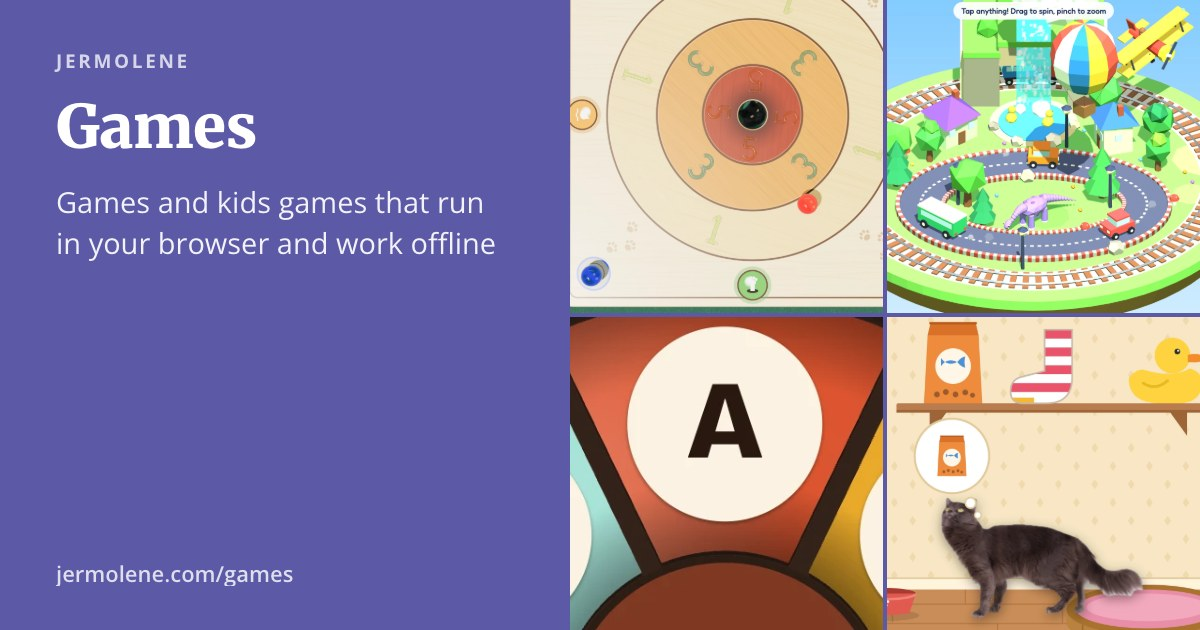
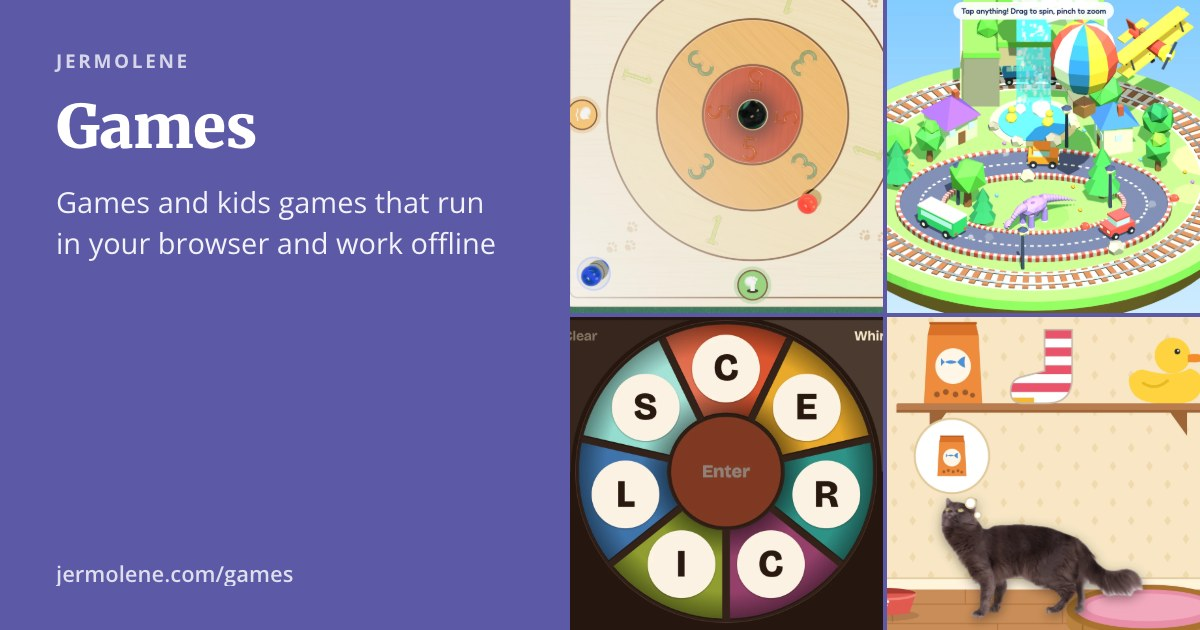
Games, toys and tools install together again, as one app that opens on the games, with one service worker at the root of the site that leaves the rest of the site alone; the indexes show an Install the app button in browsers that can offer one

Changed region(s): [[0.4625, 0.4825, 0.74, 1.0]]

diff --git a/build-pwa.js b/build-pwa.js
@@ -1,32 +1,32 @@
 /*
-Generate the files that make the indexes of the toys, games and tools at /toys,
-/games and /tools, and each toy beneath them, installable as Progressive Web
-Apps. The output goes straight into the assembled site, so this runs at the end
-of bld.sh. Each of the three sections is an app of its own, with its own
-service worker, since a worker can only look after the folder it is served
-from. For each <section>:
+Generate the files that make the toys, games and tools installable as
+Progressive Web Apps: together, as one app whose index pages are at /games,
+/toys and /tools, and each toy alone. The output goes straight into the
+assembled site, so this runs at the end of bld.sh. A service worker can only
+look after the folder it is served from, and the only folder the three
+sections share is the root of the site, so that is where the one worker and
+the app's manifest go:
 
-* `site/<section>/manifest.webmanifest` describes the index as an app that
-  bundles every toy in the section, with the toys listed as its shortcuts
+* `site/manifest.webmanifest` describes the app, which opens on the games and
+  has the three index pages as its shortcuts
 * `site/<section>/<name>/manifest.webmanifest` describes each toy as an app of
   its own, with its name, description and colours taken from the toy's `<meta>`
   tags via the tiddlers written by build-toys.js. The theme colour comes from
   `<meta name="theme-color">` and the short name from `<meta name="toy-short-title">`
-* `site/<section>/sw.js`, the service worker copied from `static-assets/toys`,
-  has the list of files it caches on installation written into it, along
-  with a version derived from their contents
+* `site/sw.js`, the service worker copied from `static-assets/sw.js`, has the
+  list of files it caches on installation written into it, along with a
+  version derived from their contents
 
-`static-assets/toys` holds the one copy of the files the sections share
-(pwa.js, sw.js and the index's icons), which are copied into `site/games` and
-`site/tools` here.
+`static-assets/toys` holds the one copy of the files the index pages and the
+toys share (pwa.js and the app's icons), which are copied into `site/games`
+and `site/tools` here.
 
-Everything under `site/<section>` is precached, except the worker itself, source
-maps and licences, and images over LARGE_IMAGE_BYTES (such as the
-Lenticulator's sample photographs), which are cached as they are first used
-instead. The index page precaches its own stylesheet, banner and the toy
-screenshots too, so that it works offline as well as the toys. Third party
-scripts and stylesheets referenced by the toys are listed separately for the
-worker to fetch on a best-effort basis.
+Everything under the three sections is precached, except source maps and
+licences, and images over LARGE_IMAGE_BYTES (such as the Lenticulator's sample
+photographs), which are cached as they are first used instead. The index pages'
+own stylesheet, banner and toy screenshots are precached too, so that they work
+offline as well as the toys. Third party scripts and stylesheets referenced by
+the toys are listed separately for the worker to fetch on a best-effort basis.
 
 Icons are expected at `icon-192.png`, `icon-512.png`, `apple-touch-icon.png`
 and `icon.svg` in `static-assets/toys` and in each toy's folder; see
@@ -51,19 +51,26 @@ const LARGE_IMAGE_BYTES = 512 * 1024,
 	IMAGE_EXTENSIONS = /\.(jpe?g|png|gif|webp|avif|bmp|tiff?)$/i,
 	NEVER_PRECACHED = /(^|\/)(sw\.js|precache\.js|\.DS_Store)$|\.(map|md)$/i;
 
-const hubs = {
-	toys: {name: "Jermolene's Toys", short_name: "Toys", description: "Toys from jermolene.com, all in one app"},
-	games: {name: "Jermolene's Games", short_name: "Games", description: "Games from jermolene.com, all in one app"},
-	tools: {name: "Jermolene's Tools", short_name: "Tools", description: "Tools from jermolene.com, all in one app"}
+const SECTIONS = [
+	{name: "games", caption: "Games", description: "Games and kids games"},
+	{name: "toys", caption: "Toys", description: "Trifles to play with"},
+	{name: "tools", caption: "Tools", description: "Useful things"}
+];
+
+const APP = {
+	name: "Jermolene's Games, Toys and Tools",
+	short_name: "Jermolene",
+	description: "Games, toys and tools from jermolene.com, all in one app that works offline",
+	start: "/games/"
 };
 
 const HUB_THEME_COLOR = "#5c59a7",
 	HUB_BACKGROUND_COLOR = "#ffffff";
 
 // The files shared by the sections, copied from site/toys into the others
-const SHARED_FILES = ["pwa.js","sw.js","icon-192.png","icon-512.png","apple-touch-icon.png"];
+const SHARED_FILES = ["pwa.js","icon-192.png","icon-512.png","apple-touch-icon.png"];
 
-// Files precached for each index page in addition to those under its section
+// Files precached for the index pages in addition to those under the sections
 const hubExtras = ["/static/static.css","/images/banner.jpg","/favicon.ico"];
 
 function readToys() {
@@ -166,30 +173,23 @@ function toyManifest(toy) {
 	};
 }
 
-function hubManifest(section,toys) {
-	const hub = hubs[section],
-		hubIcons = icons(path.join(siteDir,section),"");
-	if(hubIcons.missing.length) {
-		console.log("build-pwa: warning: " + section + " is missing " + hubIcons.missing.join(", ") + "; run build-icons.sh");
+function appManifest() {
+	const appIcons = icons(sharedDir,"/toys/");
+	if(appIcons.missing.length) {
+		console.log("build-pwa: warning: toys is missing " + appIcons.missing.join(", ") + "; run build-icons.sh");
 	}
 	return {
-		name: hub.name,
-		short_name: hub.short_name,
-		description: hub.description,
-		id: "/" + section + "/",
-		start_url: "/" + section + "/",
-		scope: "/" + section + "/",
+		name: APP.name,
+		short_name: APP.short_name,
+		description: APP.description,
+		id: "/apps",
+		start_url: APP.start,
+		scope: "/",
 		display: "standalone",
 		theme_color: HUB_THEME_COLOR,
 		background_color: HUB_BACKGROUND_COLOR,
-		icons: hubIcons.list,
-		shortcuts: toys.map(toy => {
-			const shortcut = {name: toy.caption, description: toy.description, url: toy.url};
-			if(fs.existsSync(path.join(siteDir,toy.route,"icon-192.png"))) {
-				shortcut.icons = [{src: toy.url + "icon-192.png", sizes: "192x192", type: "image/png"}];
-			}
-			return shortcut;
-		})
+		icons: appIcons.list,
+		shortcuts: SECTIONS.map(section => ({name: section.caption, description: section.description, url: "/" + section.name + "/", icons: [{src: "/toys/icon-192.png", sizes: "192x192", type: "image/png"}]}))
 	};
 }
 
@@ -198,25 +198,17 @@ function main() {
 		throw new Error("site/toys does not exist; run bld.sh first");
 	}
 	const toys = readToys();
-	// The shared files are copied before any section's worker is filled in
-	Object.keys(hubs).filter(section => section !== "toys").forEach(section => {
-		SHARED_FILES.forEach(file => fs.copyFileSync(path.join(sharedDir,file),path.join(siteDir,section,file)));
+	SECTIONS.filter(section => section.name !== "toys").forEach(section => {
+		SHARED_FILES.forEach(file => fs.copyFileSync(path.join(sharedDir,file),path.join(siteDir,section.name,file)));
 	});
-	Object.keys(hubs).forEach(section => {
-		buildSection(section,path.join(siteDir,section),toys.filter(toy => toy.section === section));
-	});
-}
-
-function buildSection(section,sectionDir,toys) {
-	const prefix = "/" + section + "/";
 	toys.forEach(toy => {
 		writeJson(path.join(siteDir,toy.route,"manifest.webmanifest"),toyManifest(toy));
 	});
-	writeJson(path.join(sectionDir,"manifest.webmanifest"),hubManifest(section,toys));
-	// The precache: the index page, everything under the section that
-	// qualifies, and the index page's own dependencies
-	const urls = Array.from(new Set([prefix]
-		.concat(listFiles(sectionDir,prefix).filter(isPrecached))
+	writeJson(path.join(siteDir,"manifest.webmanifest"),appManifest());
+	// The precache: the index pages, everything under the sections that
+	// qualifies, and the index pages' own dependencies
+	const urls = Array.from(new Set(SECTIONS.map(section => "/" + section.name + "/")
+		.concat(...SECTIONS.map(section => listFiles(path.join(siteDir,section.name),"/" + section.name + "/").filter(isPrecached)))
 		.concat(hubExtras)
 		.concat(toys.map(toy => toy.screenshot).filter(Boolean))))
 		.filter(url => {
@@ -247,14 +239,14 @@ function buildSection(section,sectionDir,toys) {
 	// bytes change whenever a toy does. Browsers compare the worker script
 	// when checking for updates, but Safari ignores changes to scripts that
 	// it imports, so a separate precache.js left iPads on old versions
-	const workerFile = path.join(sectionDir,"sw.js"),
+	const workerFile = path.join(siteDir,"sw.js"),
 		worker = fs.readFileSync(workerFile,"utf8"),
 		placeholder = 'importScripts("precache.js");';
 	if(!worker.includes(placeholder)) {
 		throw new Error("build-pwa: " + workerFile + " has no " + placeholder + " to replace");
 	}
 	fs.writeFileSync(workerFile,worker.replace(placeholder,() => "self.PRECACHE = " + JSON.stringify(precache,null,"\t") + ";"),"utf8");
-	console.log("build-pwa: " + section + ": wrote manifests for " + toys.length + " toys and a precache of " + urls.length + " files (" + Math.round(totalBytes / 1024) + "KB) plus " + external.size + " external resources, version " + precache.version);
+	console.log("build-pwa: wrote manifests for " + toys.length + " toys and a precache of " + urls.length + " files (" + Math.round(totalBytes / 1024) + "KB) plus " + external.size + " external resources, version " + precache.version);
 }
 
 try {

diff --git a/static-assets/sw.js b/static-assets/sw.js
@@ -1,15 +1,17 @@
 /*
-Service worker for one section of the site, the toys at /toys/, the games at
-/games/ or the tools at /tools/: its index and every toy beneath it. build-pwa.js
-copies it into each section, and it is registered by pwa.js, which the index
-pages and each toy include. The workers share the origin's caches, so each
-names its caches after its own section and only ever deletes its own.
+Service worker for the toys at /toys/, the games at /games/ and the tools at
+/tools/: their index pages and every toy beneath them. It is served from the
+root of the site, so that its scope covers all three sections and they can be
+installed together as one app, and it is registered by pwa.js, which the
+index pages and each toy include. Its scope also covers the rest of the site,
+whose pages and resources it leaves alone.
 
 build-pwa.js replaces the importScripts() line below with the list of files
 to cache, along with a version derived from their contents. Any change to a
 toy therefore changes the bytes of this worker, so the browser notices the
 change when it checks for updates. The new version is installed into a fresh
-cache, and the old one is discarded on activation.
+cache, and the old one is discarded on activation, along with the caches of
+the earlier workers that each looked after one section.
 
 The toys' own files are fetched from the network first, so that a visit when
 online always shows the latest version, even before an updated worker has
@@ -29,9 +31,20 @@ responses can still be stored.
 
 importScripts("precache.js");
 
-const SECTION = new URL(self.registration.scope).pathname.split("/").filter(Boolean)[0] || "toys",
-	PRECACHE = SECTION + "-precache-" + self.PRECACHE.version,
-	RUNTIME = SECTION + "-runtime";
+const PRECACHE = "apps-precache-" + self.PRECACHE.version,
+	RUNTIME = "apps-runtime",
+	SECTIONS = /^\/(games|toys|tools)(\/|$)/,
+	PRECACHED_PATHS = new Set(self.PRECACHE.urls);
+
+// Whether a cross-origin request was made by one of the toys or their
+// indexes, rather than by a page elsewhere on the site
+async function isFromToy(event,url) {
+	if(self.PRECACHE.external.includes(url.href)) {
+		return true;
+	}
+	const client = event.clientId && await self.clients.get(event.clientId);
+	return !!client && SECTIONS.test(new URL(client.url).pathname);
+}
 
 self.addEventListener("install",event => {
 	event.waitUntil((async () => {
@@ -56,7 +69,7 @@ self.addEventListener("activate",event => {
 	event.waitUntil((async () => {
 		const keys = await caches.keys();
 		await Promise.all(keys
-			.filter(key => key.startsWith(SECTION + "-") && key !== PRECACHE && key !== RUNTIME)
+			.filter(key => /^(apps|games|toys|tools)-/.test(key) && key !== PRECACHE && key !== RUNTIME)
 			.map(key => caches.delete(key)));
 		await self.clients.claim();
 	})());
@@ -100,7 +113,16 @@ self.addEventListener("fetch",event => {
 		return;
 	}
 	const url = new URL(request.url);
+	// The rest of the site is left to the browser. Third party resources
+	// can only be told apart once the page that asked for them has been
+	// looked up, and those of other pages are then fetched as normal
+	if(url.origin === self.location.origin && !SECTIONS.test(url.pathname) && !PRECACHED_PATHS.has(url.pathname)) {
+		return;
+	}
 	event.respondWith((async () => {
+		if(url.origin !== self.location.origin && !await isFromToy(event,url)) {
+			return fetch(request);
+		}
 		const precache = await caches.open(PRECACHE),
 			runtime = await caches.open(RUNTIME),
 			matchOptions = {ignoreSearch: true, ignoreVary: true};

diff --git a/static-assets/toys/pwa.js b/static-assets/toys/pwa.js
@@ -4,21 +4,22 @@ tools at /tools/, and by every toy beneath them, which include it with
 `<script src="../pwa.js" defer></script>`. build-pwa.js copies it from
 static-assets/toys into the other sections.
 
-It registers the service worker `sw.js` next to this script, whose scope
-covers the section's index and all of its toys, so that whichever page is visited first
-makes the whole section available offline and installable.
+It registers the service worker `/sw.js`, whose scope covers all three
+sections, so that whichever page is visited first makes every toy available
+offline and the indexes installable as one app. The earlier workers that each
+looked after one section are unregistered.
 
-When the index has been installed as an app, each toy opened from it shows a
-small button in the bottom-left corner that returns to the index. The button
-only appears inside the installed index app: a toy installed as an app in its
-own right, or viewed in an ordinary browser tab, is left alone. The index app
-marks its window in sessionStorage when it runs in standalone mode, and that
+When the indexes have been installed as an app, each toy opened from it shows
+a small button in the bottom-left corner that returns to the toy's index. The
+button only appears inside the installed app: a toy installed as an app in its
+own right, or viewed in an ordinary browser tab, is left alone. The indexes
+mark their window in sessionStorage when they run in standalone mode, and that
 mark is still present when the user navigates on to a toy within the same
 window.
 
-The site's menu links to the index as /toys without a trailing slash, which
-lies outside the worker's scope and so cannot be served offline, so such links
-are given their trailing slash on the pages this script runs on.
+The site's menu links to the indexes as /toys and so on, without a trailing
+slash, so such links are given their trailing slash on the pages this script
+runs on, to match the precached copies of the indexes.
 
 When a toy is opened from disk the rest has nothing to do.
 
@@ -89,7 +90,14 @@ if("serviceWorker" in navigator) {
 	// The worker is always fetched from the network when checking for updates.
 	// An app on an iPad home screen is resumed rather than reloaded, so it also
 	// checks whenever it comes back into view
-	navigator.serviceWorker.register(new URL("sw.js",script.src).href,{updateViaCache: "none"}).then(function(registration) {
+	navigator.serviceWorker.getRegistrations().then(function(registrations) {
+		registrations.forEach(function(registration) {
+			if(/^\/(games|toys|tools)\/$/.test(new URL(registration.scope).pathname)) {
+				registration.unregister();
+			}
+		});
+	}).catch(function() {});
+	navigator.serviceWorker.register(new URL("/sw.js",script.src).href,{updateViaCache: "none"}).then(function(registration) {
 		document.addEventListener("visibilitychange",function() {
 			if(document.visibilityState === "visible") {
 				registration.update().catch(function() {});
@@ -125,8 +133,8 @@ function normaliseHubLinks() {
 	var links = document.querySelectorAll("a[href]");
 	for(var i = 0; i < links.length; i++) {
 		var link = links[i];
-		if(link.origin === location.origin && link.pathname === hubPath.replace(/\/$/,"")) {
-			link.pathname = hubPath;
+		if(link.origin === location.origin && /^\/(games|toys|tools)$/.test(link.pathname)) {
+			link.pathname += "/";
 		}
 	}
 }

diff --git a/main-wiki/tiddlers/system/$___Toys_PWA.js b/main-wiki/tiddlers/system/$___Toys_PWA.js
@@ -3,20 +3,62 @@ title: $:/_Toys/PWA.js
 type: application/javascript
 tags: $:/tags/Static/JS
 
-On the Toys, Games and Tools pages, which $:/_Toys/PWA marks with their web app
-manifests, load the script shared with the toys that registers the service worker. A <script> tag
-cannot be written in the wikified head, so it is loaded from here instead
+On the Toys, Games and Tools pages, which $:/_Toys/PWA marks with the app's
+manifest and the name of their section, load the section's copy of the script
+shared with the toys that registers the service worker. A <script> tag cannot
+be written in the wikified head, so it is loaded from here instead.
+
+In browsers that let a page offer to install itself (Chrome, Edge and their
+relatives, which announce it with the beforeinstallprompt event) a button is
+also shown above the listing that installs the app. Other browsers, such as
+Safari, have no such event and so never show the button
 
 \*/
 (function(){
 
 "use strict";
 
-var manifest = document.querySelector('link[rel="manifest"][href$="/manifest.webmanifest"]');
-if(manifest) {
+var section = document.querySelector('meta[name="toys-section"]');
+if(section) {
 	var script = document.createElement("script");
-	script.src = manifest.getAttribute("href").replace(/manifest\.webmanifest$/,"pwa.js");
+	script.src = "/" + section.getAttribute("content") + "/pwa.js";
 	document.head.appendChild(script);
+	window.addEventListener("beforeinstallprompt",function(event) {
+		event.preventDefault();
+		showInstallButton(event);
+	});
+}
+
+function showInstallButton(installPrompt) {
+	if(document.readyState === "loading") {
+		document.addEventListener("DOMContentLoaded",function() {
+			showInstallButton(installPrompt);
+		});
+		return;
+	}
+	var listing = document.querySelector(".jermolene-toy-listing");
+	if(!listing || document.querySelector(".jermolene-install")) {
+		return;
+	}
+	var wrapper = document.createElement("div"),
+		button = document.createElement("button"),
+		note = document.createElement("span");
+	wrapper.className = "jermolene-install";
+	button.type = "button";
+	button.textContent = "Install the app";
+	note.textContent = "All the games, toys and tools in one app that works offline";
+	wrapper.appendChild(button);
+	wrapper.appendChild(note);
+	listing.parentNode.insertBefore(wrapper,listing);
+	button.addEventListener("click",function() {
+		installPrompt.prompt();
+		installPrompt.userChoice.then(function() {
+			wrapper.remove();
+		});
+	});
+	window.addEventListener("appinstalled",function() {
+		wrapper.remove();
+	});
 }
 
 })();

diff --git a/README.md b/README.md
@@ -35,10 +35,10 @@ Most toys are edited in place, so their folder in `static-assets` is their sourc
 
 ## Progressive Web Apps
 
-The `/games`, `/toys` and `/tools` indexes and each toy can be installed as apps and work offline. Installing an index gives one app containing every toy in that section; installing a toy gives an app of that toy alone. Each toy's `index.html` carries `<link rel="manifest" href="manifest.webmanifest">`, `<meta name="theme-color">`, `<link rel="apple-touch-icon">` and `<script src="../pwa.js" defer>`, and the generated index pages carry the equivalent (from `$:/_Toys/PWA` and `$:/_Toys/PWA.js` in `main-wiki/tiddlers/system`):
+The `/games`, `/toys` and `/tools` indexes and each toy can be installed as apps and work offline. Installing any of the three indexes gives one app containing every toy, which opens on the games; installing a toy gives an app of that toy alone. In browsers that support it (Chrome, Edge and their relatives) the indexes show an "Install the app" button. Each toy's `index.html` carries `<link rel="manifest" href="manifest.webmanifest">`, `<meta name="theme-color">`, `<link rel="apple-touch-icon">` and `<script src="../pwa.js" defer>`, and the generated index pages carry the equivalent (from `$:/_Toys/PWA` and `$:/_Toys/PWA.js` in `main-wiki/tiddlers/system`):
 
-* `build-pwa.js` runs at the end of `bld.sh`, after the site has been assembled, and writes into `site/` the web app manifest for each index (eg `/games/manifest.webmanifest`, which lists the section's toys as shortcuts) and for each toy (eg `/games/<name>/manifest.webmanifest`, with the name, description and colours from the toy's `<meta>` tags via `toys.json`), and writes into each section's copy of the service worker the list of files it caches, along with a version hashed from their contents. These are build outputs and are not committed
-* `static-assets/toys/sw.js` is the service worker and `static-assets/toys/pwa.js` registers it from the indexes and from every toy. A worker can only look after its own folder, so `build-pwa.js` copies both, and the index icons, into `/games` and `/tools`, giving each section its own worker; the workers name their caches after their sections so that they leave each other's alone. Whichever page of a section is visited first makes the whole section available offline. On installation a worker precaches everything in its section (except source maps, licences and images over 512KB, such as the Lenticulator's sample photographs, which are cached as they are first used) together with the index page's stylesheet, banner and screenshots, and fetches the toys' third party scripts and fonts on a best-effort basis. Any change to the toys changes the worker, and the browser then installs the new version into a fresh cache
+* `build-pwa.js` runs at the end of `bld.sh`, after the site has been assembled, and writes into `site/` the web app manifest for the app (`/manifest.webmanifest`, which has the three indexes as its shortcuts) and for each toy (eg `/games/<name>/manifest.webmanifest`, with the name, description and colours from the toy's `<meta>` tags via `toys.json`), and writes into the service worker the list of files it caches, along with a version hashed from their contents. These are build outputs and are not committed
+* `static-assets/sw.js` is the service worker and `static-assets/toys/pwa.js` registers it from the indexes and from every toy. A worker can only look after its own folder, and the only folder the three sections share is the root of the site, so that is where the worker is served from; it leaves the rest of the site alone. `build-pwa.js` copies `pwa.js` and the app's icons into `/games` and `/tools`. Whichever toy or index is visited first makes every toy available offline. On installation the worker precaches everything in the three sections (except source maps, licences and images over 512KB, such as the Lenticulator's sample photographs, which are cached as they are first used) together with the index pages' stylesheet, banner and screenshots, and fetches the toys' third party scripts and fonts on a best-effort basis. Any change to the toys changes the worker, and the browser then installs the new version into a fresh cache
 * `pwa.js` also shows a small "back to the index" button in the bottom-left corner of a toy that was opened from an installed index app, and gives the menu's link to the section's index its trailing slash so that it stays within the worker's scope. Opened from disk, it only stops the page zooming, and toys outside `static-assets/toys` don't have it at all
 * Icons are hand-drawn as `icon.svg` in `static-assets/toys` (the index) and in each toy's folder, and `build-icons.sh` renders them to the committed `icon-192.png`, `icon-512.png` and `apple-touch-icon.png` with `rsvg-convert` (`brew install librsvg`). The artwork keeps to the central 80% so the same files serve as maskable icons. A new toy needs an `icon.svg` and a `theme-color` meta tag, and optionally `<meta name="toy-short-title">` for a name short enough for a home screen; `build-toys.js` and `build-pwa.js` warn when they are missing
 
